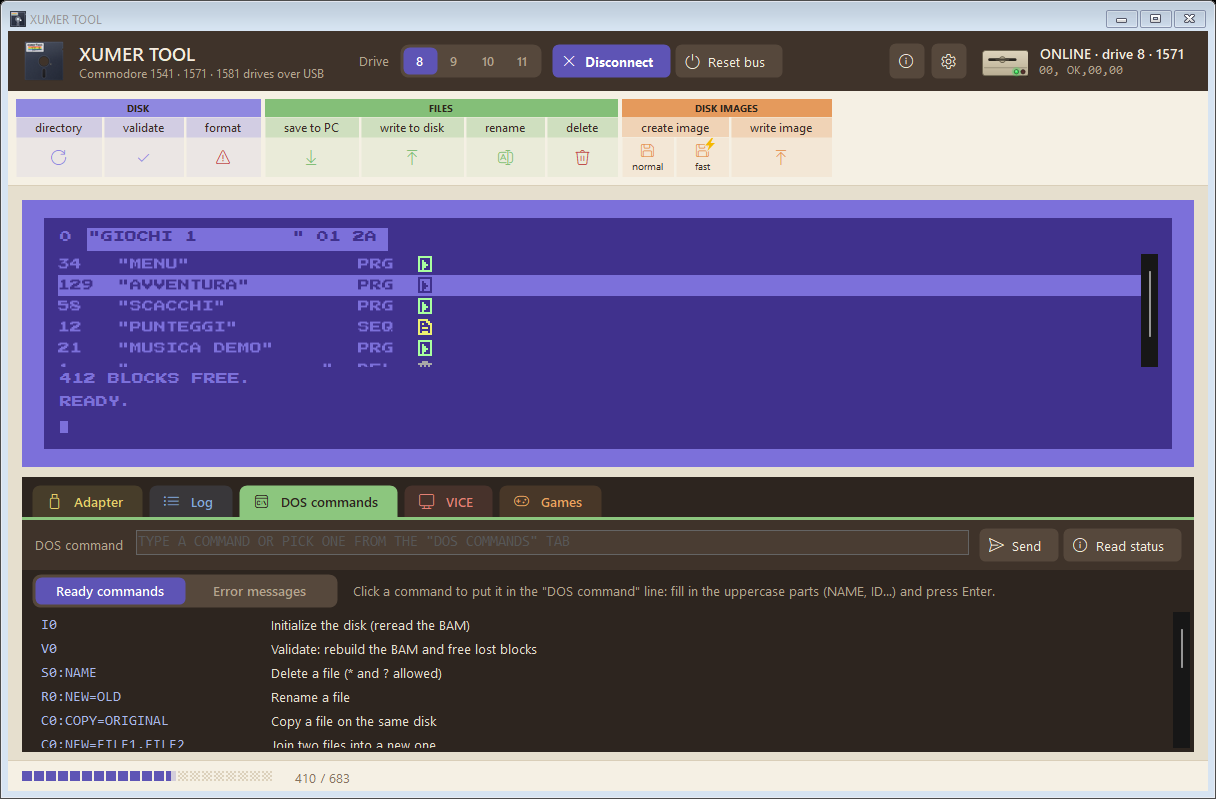
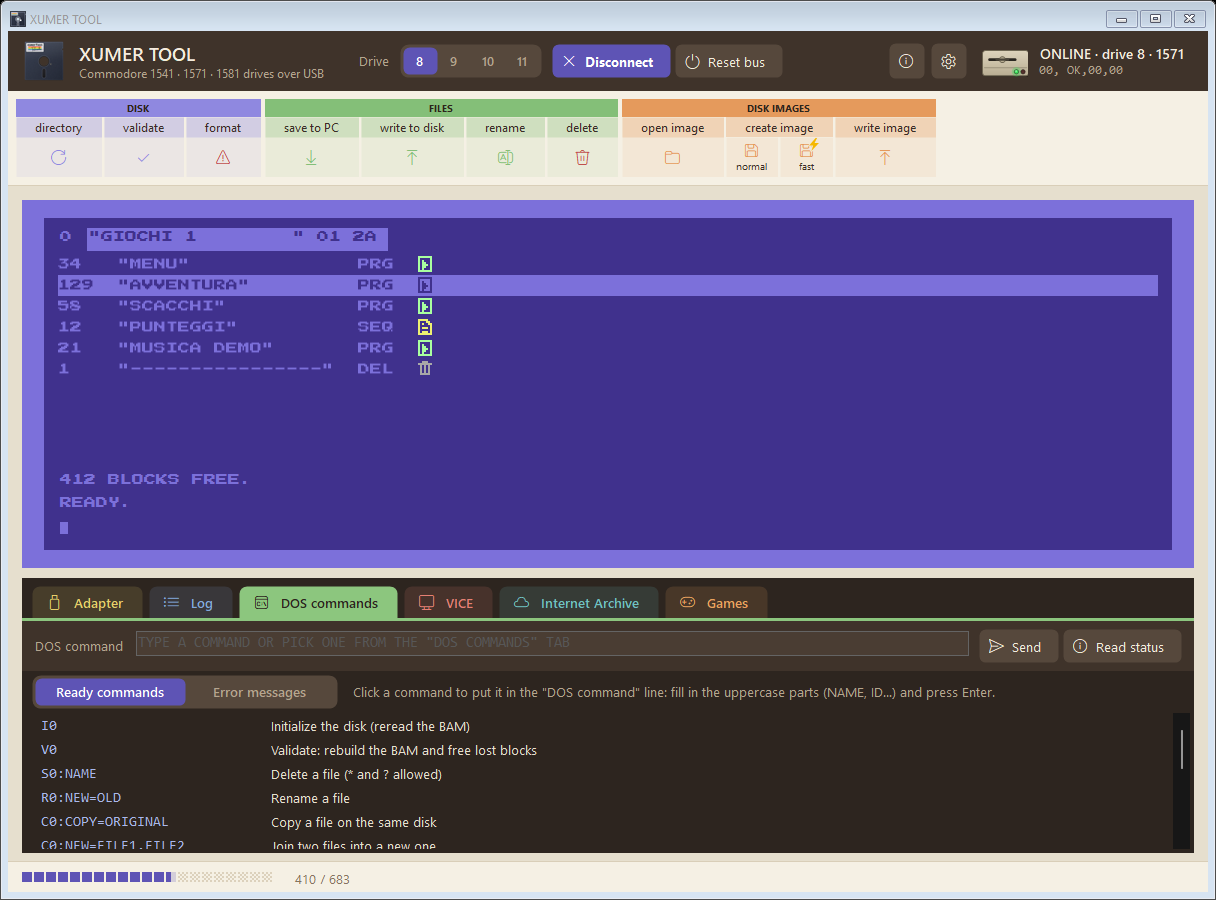
Xumertool v1.3b

diff --git a/src/MainForm.cs b/src/MainForm.cs
@@ -84,8 +84,11 @@ namespace XumerTool
                 f.StartPosition = FormStartPosition.Manual;
                 f.Location = new Point(-20000, -20000);
                 f.Show();
-                foreach (string a in args)   // w=NNN: larghezza della finestra (per provare l'adattamento)
+                foreach (string a in args)   // w=NNN / h=NNN: larghezza e altezza della finestra (per provare l'adattamento)
+                {
                     if (a.StartsWith("w=")) f.Width = Math.Max(f.MinimumSize.Width, int.Parse(a.Substring(2)));
+                    if (a.StartsWith("h=")) f.Height = Math.Max(f.MinimumSize.Height, int.Parse(a.Substring(2)));
+                }
                 f.Demo(args.Length >= 4 ? int.Parse(args[3]) : 1);
                 if (args.Length >= 5 && args[4] == "saver") { Application.DoEvents(); f.DemoPanelSaver(4.0f); }
                 // iaon: scheda Internet Archive "collegata" con un nome di esempio (nulla viene salvato)
@@ -931,7 +934,8 @@ namespace XumerTool
             {
                 Dock = DockStyle.Fill, BorderStyle = BorderStyle.None, DrawMode = DrawMode.OwnerDrawFixed,
                 BackColor = Theme.C64Back, ForeColor = Theme.C64Text, Font = ScreenFonts.Screen(),
-                SelectionMode = SelectionMode.MultiExtended, IntegralHeight = false, AllowDrop = true
+                // IntegralHeight: solo righe intere, così l'ultima non resta tagliata a metà sopra "BLOCKS FREE"
+                SelectionMode = SelectionMode.MultiExtended, IntegralHeight = true, AllowDrop = true
             };
             lst.ItemHeight = lst.Font.Height + Theme.S(ScreenFonts.Current.Spacing);
             entryIconCol = -1;   // colonna delle icone dei file: si rimisura con il carattere nuovo

diff --git a/README.md b/README.md
@@ -19,7 +19,7 @@
 ## Cosa fa
 
 - **Disco**: directory nello schermo blu del C64, validazione, formattazione.
-- **File**: salva i file del disco sul PC e scrive i file del PC sul disco (PRG, SEQ, P00), rinomina, cancella. Si possono anche trascinare i file sullo schermo blu.
+- **File**: salva i file del disco sul PC e scrive i file del PC sul disco (PRG, SEQ, P00), rinomina, cancella, anche dal menu del tasto destro. Si possono anche trascinare i file sullo schermo blu.
 - **Immagini disco**: apre le immagini **D64**, **D71** e **D81** dal PC anche senza drive (con doppio clic da Esplora risorse o trascinandole sullo schermo blu); crea e scrive immagini sul disco (con un .txt della directory accanto, in stile C64), con la mappa del disco che si colora settore per settore. In più la **copia veloce** sperimentale (protocollo S2 di OpenCBM): un disco in circa un minuto.
 - **Comandi DOS**: riga di comando con un elenco di comandi pronti, lettura dello stato del drive e legenda dei messaggi di errore con la spiegazione e cosa fare.
 - **VICE**: avvia nell'emulatore un programma, un'immagine o tutto il disco del drive.
@@ -35,6 +35,10 @@
 
 <p align="center">
   <img src="docs/mappa-disco.png" width="820" alt="Mappa del disco durante la creazione di un'immagine D71: le due facce, con i settori letti, quelli da leggere e alcuni errori">
+</p>
+
+<p align="center">
+  <img src="docs/immagine-pc.png" width="820" alt="Un'immagine D64 aperta dal PC senza drive collegato, con il menu del tasto destro su un file">
 </p>
 
 ## Cosa serve
@@ -73,7 +77,7 @@ Dieci temi, scelti nelle Preferenze da una tendina con l'anteprima della finestr
 Chiaro, Commodore, Rosé Pine, Scuro, Tokyo Night, Catppuccin, Everforest, Gruvbox, Nord e Lunar Tear.
 
 <p align="center">
-  <img src="docs/preferenze.png" width="520" alt="Finestra Preferenze con la scelta del tema">
+  <img src="docs/preferenze.png" width="520" alt="Finestra Preferenze a sezioni colorate: avvio e lingua, immagini disco, salvaschermo, carattere e tema">
   <img src="docs/temi.png" width="260" alt="Tendina dei temi">
 </p>
 

diff --git a/README.en.md b/README.en.md
@@ -19,7 +19,7 @@
 ## Features
 
 - **Disk**: directory on the blue C64 screen, validate, format.
-- **Files**: save files from the disk to the PC and write PC files to the disk (PRG, SEQ, P00), rename, delete. You can also drag files onto the blue screen.
+- **Files**: save files from the disk to the PC and write PC files to the disk (PRG, SEQ, P00), rename, delete, also from the right-click menu. You can also drag files onto the blue screen.
 - **Disk images**: opens **D64**, **D71** and **D81** images from the PC even without a drive (by double-click in File Explorer or by dragging them onto the blue screen); creates and writes images on disk (with a C64-style directory .txt next to them), with a disk map that fills in sector by sector. Plus the experimental **fast copy** (OpenCBM's S2 protocol): a whole disk in about one minute.
 - **DOS commands**: command line with a list of ready-made commands, drive status reading and a legend of the error messages with an explanation and what to do.
 - **VICE**: run a program, an image or the whole disk in the emulator.
@@ -35,6 +35,10 @@
 
 <p align="center">
   <img src="docs/en-disk-map.png" width="820" alt="Disk map while creating a D71 image: both sides, with sectors read, sectors still to read and a few errors">
+</p>
+
+<p align="center">
+  <img src="docs/en-pc-image.png" width="820" alt="A D64 image opened from the PC with no drive connected, with the right-click menu on a file">
 </p>
 
 ## Requirements
@@ -73,7 +77,7 @@ Ten themes, chosen in Preferences from a drop-down list with a preview of the wi
 Light, Commodore, Rosé Pine, Dark, Tokyo Night, Catppuccin, Everforest, Gruvbox, Nord and Lunar Tear.
 
 <p align="center">
-  <img src="docs/en-preferences.png" width="520" alt="Preferences window with the theme choice">
+  <img src="docs/en-preferences.png" width="520" alt="Preferences window with coloured sections: startup and language, disk images, screen saver, font and theme">
   <img src="docs/en-themes.png" width="260" alt="Theme drop-down list">
 </p>
 

diff --git a/CHANGELOG.md b/CHANGELOG.md
@@ -10,6 +10,7 @@
 - **Menu del tasto destro** sui file: salva sul PC, avvia in VICE, rinomina, cancella, salva la directory come .txt.
 - **Preferenze riordinate**: sezioni colorate come la barra a nastro, una per riga, senza scorrere.
 - Lettura delle immagini verificata con c1541 di VICE (directory, blocchi liberi e file identici); un'immagine rovinata dà un errore chiaro. `xumtest image` mostra la directory di un'immagine ed estrae i file.
+- Corretto: nello schermo blu l'ultima riga della directory non resta più tagliata a metà sopra "BLOCKS FREE".
 
 ## 1.2.1b (beta) – 18/11/2026
 

diff --git a/CHANGELOG.en.md b/CHANGELOG.en.md
@@ -10,6 +10,7 @@
 - **Right-click menu** on files: save to PC, run in VICE, rename, delete, save the directory as .txt.
 - **Tidier Preferences**: coloured sections like the ribbon, one per row, no scrolling.
 - Image reading checked against VICE's c1541 (identical directory, free blocks and files); a damaged image gives a clear error. `xumtest image` shows an image's directory and extracts its files.
+- Fixed: on the blue screen the last directory line is no longer cut in half above "BLOCKS FREE".
 
 ## 1.2.1b (beta) – 2026-11-18
 
